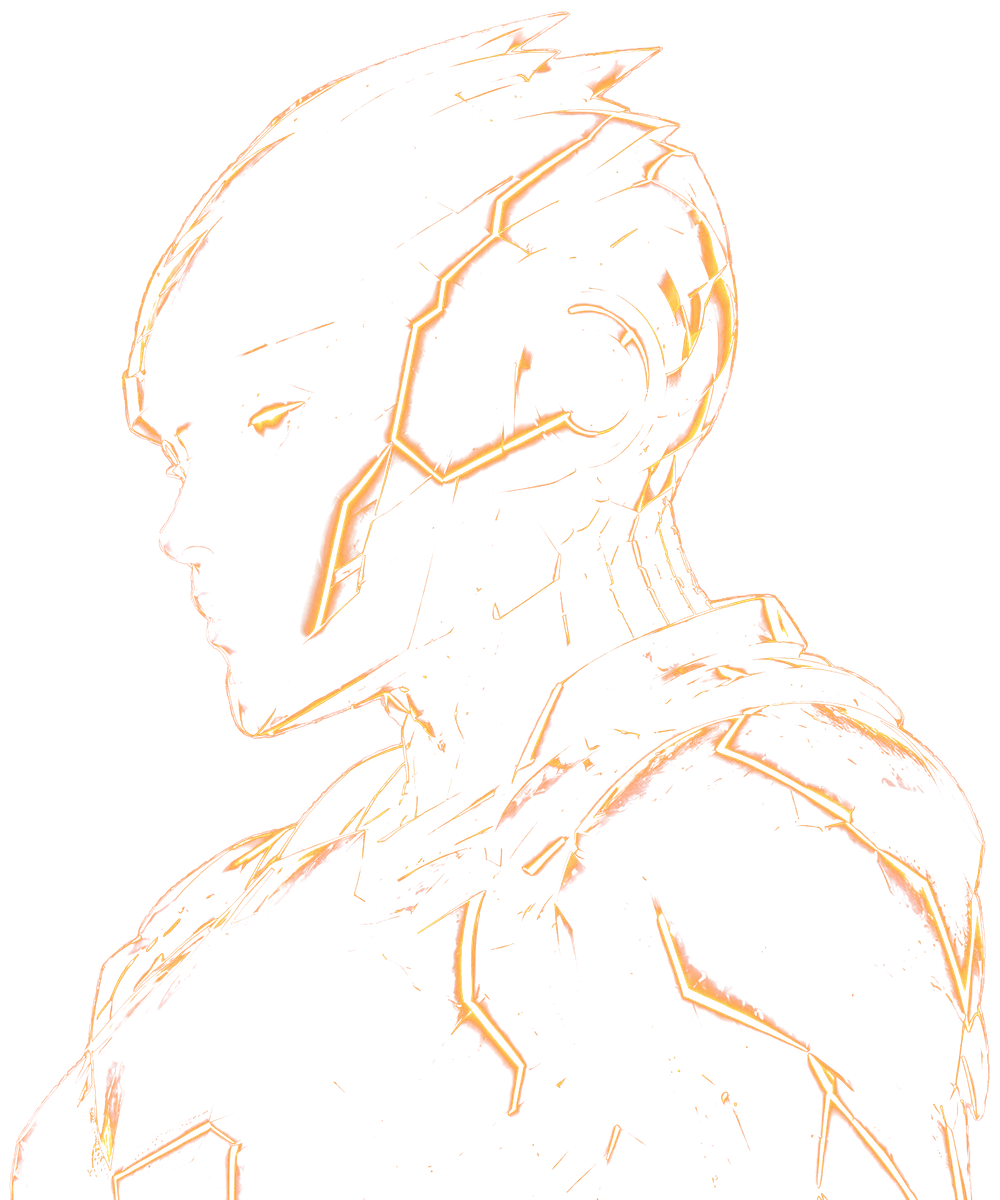
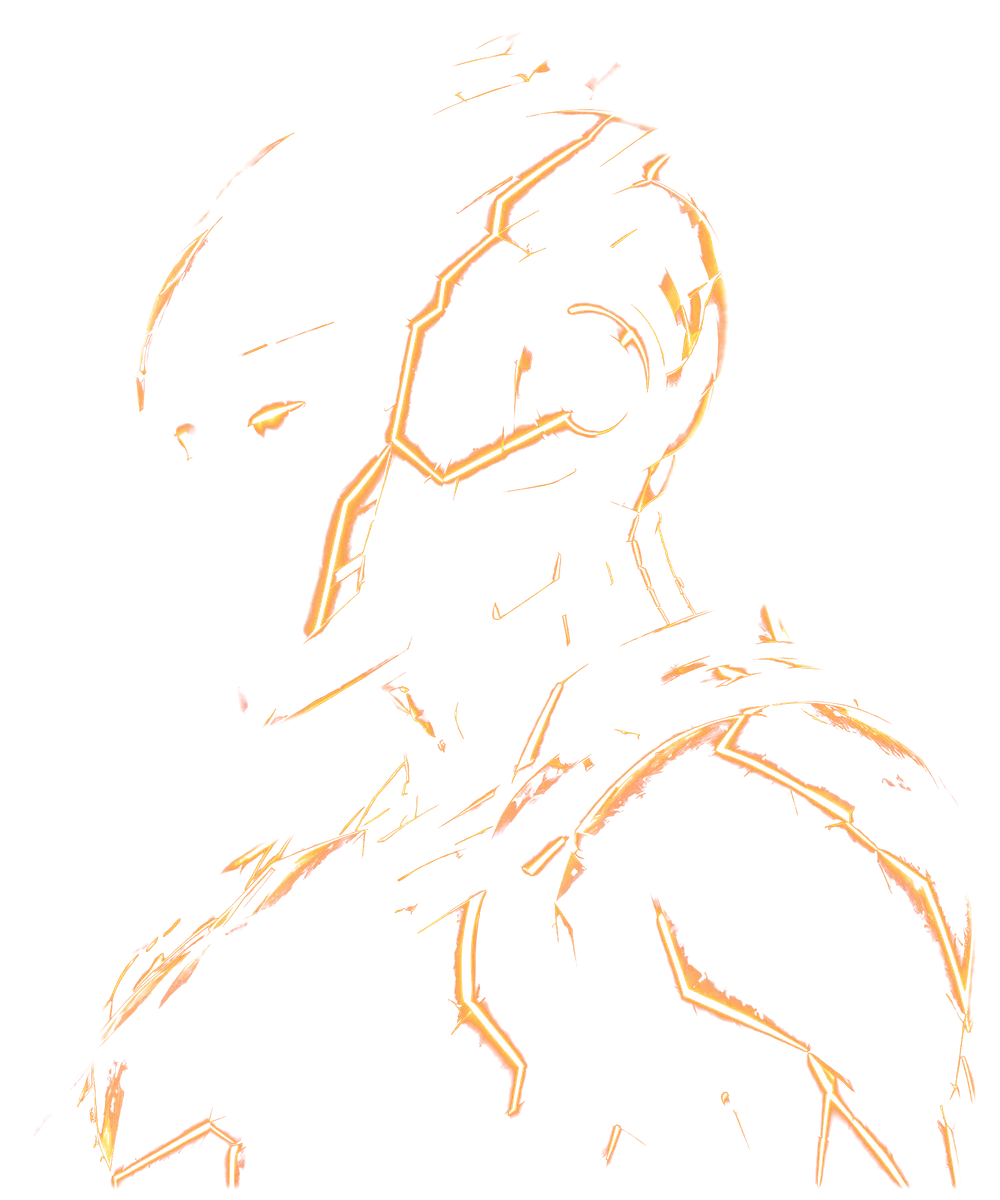
fix(tv): refine ai emissive mask and vein glow
The AI's emissive layer was an edge trace of the whole fighter, not its
circuitry. Colour alone cannot tell the two apart: the figure is rim-lit
in the same orange the channels are made of, so "bright and orange"
selected the skull's outline, the profile of the face, the arm contours
and every lit armour bevel along with the cracks and seams. The current
travelling through that mask read as a light sweeping OVER the robot,
and the neon pulsing it made the whole silhouette shimmer.

Two things separate a channel from a lit edge, and neither is a colour.
A channel is cut into the armour, so it sits well inside the cut-out,
while rim light lies along the cut-out's own boundary. And a channel is
a thin bright line with darker armour on BOTH sides, while a lit edge,
a bevel or the sheen over the helmet has armour on one side only. The
build now measures both -- a distance transform and a four-axis ridge
test that ignores any axis running off the figure -- and applies the
line test per connected region rather than per pixel, so a channel's
core, its forks and its junctions stay continuous instead of dashed.

That derives two layers instead of one. ai-glow.webp, which the neon
pulses, is the light the armour gives off: the line and the first of
its falloff. ai-veins.webp is the line alone, and is only ever a mask:
it is where the fronts are allowed to put their current, so a front
tracks the circuitry instead of washing across the halo around it.
[…]

diff --git a/src/components/arena-tv/Characters.module.css b/src/components/arena-tv/Characters.module.css
@@ -202,13 +202,22 @@
 
 /* ---- Current running through the AI's channels ---------------------------
 
-   The whole effect is cut to ai-glow.webp — the emissive layer the asset build
-   derives, holding the armour's lit seams and nothing else. It is the MASK
-   here, not the picture: each layer is a sheet of travelling light with the
-   glow image cut out of it, so light can only ever land where a channel
-   already exists. That is what keeps this from being a flash: the artwork
-   underneath is untouched, no global opacity moves, and a channel's own colour
-   is never replaced -- it only gets hotter as a front passes through it.
+   The whole effect is cut to ai-veins.webp — the channel layer the asset build
+   derives: the armour's circuitry, the cracks and the seams, and none of the
+   rim light that runs along the figure's outline. It is the MASK here, not the
+   picture: each layer is a sheet of travelling light with the channels cut out
+   of it, so light can only ever land where a channel already exists. That is
+   what keeps this from being a flash: the artwork underneath is untouched, no
+   global opacity moves, and a channel's own colour is never replaced -- it
+   only gets hotter as a front passes through it.
+
+   Why the veins layer and not ai-glow.webp, which the neon above uses: the
+   glow carries the first of each channel's falloff, the halo the armour throws
+   around the line. A front crossing the halo washes over the plates between
+   the channels, and the effect reads as a light sweeping over the robot. Cut
+   to the line alone, the same front reads as current inside it. The halo is
+   still there -- it is what the neon layers are pulsing -- it simply is not
+   what the current is allowed to travel down.
 
    The mask is fixed and the light moves inside it. That is deliberate: a mask
    that moves every frame repaints the whole figure every frame, while a fixed
@@ -231,11 +240,10 @@
   position: absolute;
   inset: 0;
   overflow: hidden;
-  opacity: var(--charge);
   transition: opacity var(--t-lighting, 2.4s) ease-in-out;
-  /* Only the lit seams, exactly where the art has them. */
-  -webkit-mask-image: url('/arena-tv/ai-glow.webp');
-  mask-image: url('/arena-tv/ai-glow.webp');
+  /* Only the channels themselves, exactly where the art has them. */
+  -webkit-mask-image: url('/arena-tv/ai-veins.webp');
+  mask-image: url('/arena-tv/ai-veins.webp');
   -webkit-mask-size: 100% 100%;
   mask-size: 100% 100%;
   -webkit-mask-repeat: no-repeat;
@@ -245,44 +253,71 @@
 }
 
 /*
- * The front itself: a few soft bands repeating every 300px, rotated to cross
- * the figure at an angle and slid along their own axis by exactly one period,
- * so the loop has no seam to see. Oversized because a rotated rectangle has
- * to stay over the figure at every angle.
+ * The fronts do not all come on together. Each has its own threshold on the
+ * charge, so a losing machine runs one slow front down a few channels and a
+ * winning one has all three crossing at once: fewer channels lit and less
+ * movement at the bottom, more of both at the top, with the step between them
+ * carried by the transition above rather than a switch. The first front never
+ * goes out -- the AI idles, it does not power down.
+ */
+.veins i:nth-child(1) {
+  opacity: clamp(0.14, var(--charge), 1);
+}
+
+.veins i:nth-child(2) {
+  opacity: clamp(0, (var(--charge) - 0.28) * 1.4, 1);
+}
+
+.veins i:nth-child(3) {
+  opacity: clamp(0, (var(--charge) - 0.48) * 1.9, 1);
+}
+
+/*
+ * The front itself: a few soft bands repeating every --vein-period, rotated to
+ * cross the figure at an angle and slid along their own axis by exactly one
+ * period, so the loop has no seam to see. Oversized because a rotated
+ * rectangle has to stay over the figure at every angle.
+ *
+ * Each front sets its own period as well as its own clock. Three spacings that
+ * do not line up mean the gaps between the bands land somewhere different
+ * every pass, so the figure is never lit all at once and never dark all at
+ * once: some channels are taking a front, some are holding the last one.
  */
 .veins i::before {
   content: '';
   position: absolute;
   inset: -75%;
-  background: repeating-linear-gradient(
-    180deg,
-    transparent 0 114px,
-    rgb(255 168 78 / 0.34) 134px,
-    rgb(255 250 236 / 0.98) 150px,
-    rgb(255 168 78 / 0.34) 166px,
-    transparent 186px 300px
-  );
   animation: vein-flow 7.3s linear infinite;
 }
 
 /* Up through the body, the quickest and the one that reads as the pulse. */
 .veins i:nth-child(1)::before {
   --vein-tilt: 14deg;
+  --vein-period: 300px;
   animation-duration: 7.3s;
+  background: repeating-linear-gradient(
+    180deg,
+    transparent 0 132px,
+    rgb(255 168 78 / 0.32) 152px,
+    rgb(255 250 236 / 0.98) 166px,
+    rgb(255 168 78 / 0.32) 180px,
+    transparent 200px 300px
+  );
 }
 
 /* Across it the other way and slower, so the two cross rather than stack. */
 .veins i:nth-child(2)::before {
   --vein-tilt: -68deg;
+  --vein-period: 360px;
   animation-duration: 9.7s;
   animation-delay: -3.1s;
   background: repeating-linear-gradient(
     180deg,
-    transparent 0 126px,
-    rgb(255 146 56 / 0.3) 146px,
-    rgb(255 240 210 / 0.86) 162px,
-    rgb(255 146 56 / 0.3) 178px,
-    transparent 198px 300px
+    transparent 0 176px,
+    rgb(255 146 56 / 0.28) 196px,
+    rgb(255 240 210 / 0.86) 210px,
+    rgb(255 146 56 / 0.28) 224px,
+    transparent 244px 360px
   );
 }
 
@@ -290,15 +325,16 @@
    looks, and the reason the channels settle rather than strobe. */
 .veins i:nth-child(3)::before {
   --vein-tilt: 38deg;
+  --vein-period: 440px;
   animation-duration: 13.1s;
   animation-delay: -5.7s;
   background: repeating-linear-gradient(
     180deg,
-    transparent 0 60px,
-    rgb(255 132 40 / 0.26) 118px,
-    rgb(255 214 148 / 0.6) 150px,
-    rgb(255 132 40 / 0.26) 182px,
-    transparent 240px 300px
+    transparent 0 150px,
+    rgb(255 132 40 / 0.24) 212px,
+    rgb(255 214 148 / 0.58) 250px,
+    rgb(255 132 40 / 0.24) 288px,
+    transparent 350px 440px
   );
 }
 
@@ -310,7 +346,7 @@
     transform: rotate(var(--vein-tilt, 0deg)) translateY(0);
   }
   to {
-    transform: rotate(var(--vein-tilt, 0deg)) translateY(-300px);
+    transform: rotate(var(--vein-tilt, 0deg)) translateY(calc(-1 * var(--vein-period, 300px)));
   }
 }
 

diff --git a/src/components/arena-tv/Characters.tsx b/src/components/arena-tv/Characters.tsx
@@ -129,19 +129,22 @@ export function AiFighter() {
 /**
  * Current running through the AI's channels.
  *
- * Three travelling fronts, each cut to the emissive layer so only the orange
- * channels can take any of it — the artwork underneath is never touched, never
- * recoloured and never flashed as a whole. Each front crosses the figure at
- * its own angle, on its own clock, so at any moment some channels are being
- * lit, some are still carrying the last front and none of them are dark: the
- * base glow is always underneath. Where two fronts cross, that stretch reads
- * as fully charged.
+ * Three travelling fronts, each cut to ai-veins.webp — the armour's circuitry
+ * alone, without the halo around it and without the rim light along the
+ * figure's outline — so only the orange channels can take any of it. The
+ * artwork underneath is never touched, never recoloured and never flashed as a
+ * whole. Each front crosses the figure at its own angle, on its own clock and
+ * with its own spacing, so at any moment some channels are being lit, some are
+ * still carrying the last front and none of them are dark: the base glow is
+ * always underneath. Where two fronts cross, that stretch reads as fully
+ * charged.
  *
  * Three rather than one because a single band is a wipe, and a wipe reads as a
  * light passing OVER the robot rather than current moving THROUGH it. The
  * periods share no useful factor, so the pattern does not repeat for the
- * length of a booth day. Everything else — the angles, the bands and the
- * clocks — is in Characters.module.css.
+ * length of a booth day. How many of the three are running is the only thing
+ * the lead changes. Everything else — the angles, the bands and the clocks —
+ * is in Characters.module.css.
  */
 function Veins() {
   return (
